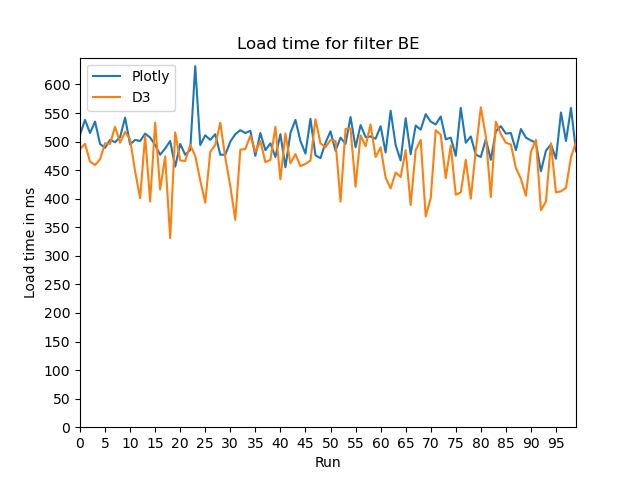
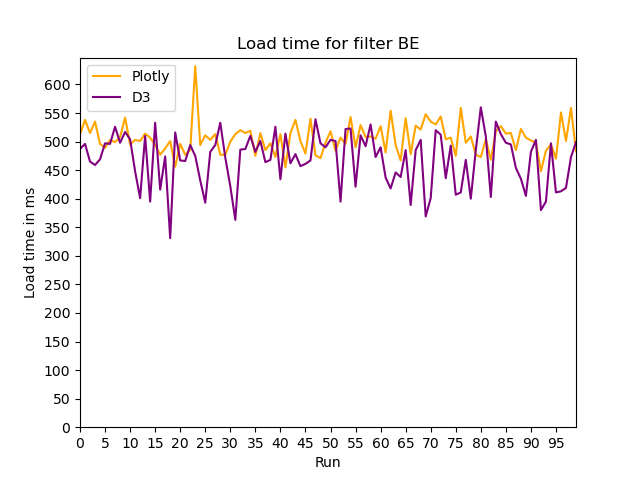
fixed color scale

Changed region(s): [[0.125, 0.125, 0.9062, 0.5], [0.1562, 0.1562, 0.1875, 0.2188]]

diff --git a/pilotData/diffs/filterLine.py b/pilotData/diffs/filterLine.py
@@ -42,14 +42,14 @@ filters = [['BE'], ['DE'], ['BE', 'DK'], ['ES', 'CZ', 'EL', 'ES', 'FR', 'HR', 'I
 for filter in filters:
 
     # whatever filter we are on i.e 1,2,3 etc. start counting every 5th from that in PlY and d3Y.
-    plt.plot(x, PlY[filters.index(filter)::5])
-    plt.plot(x, d3Y[filters.index(filter)::5])
+    plt.plot(x, PlY[filters.index(filter)::5], 'orange')
+    plt.plot(x, d3Y[filters.index(filter)::5], 'purple')
 
     plt.ylim(ymin=0)
     plt.xlim(xmin=0, xmax=99)
     # -1 since we start from 0
     # plt.xlim(xmax=len(PlY[0::5]))
-    
+
     plt.xticks(range(0,100,5))
     # range from 0 to the maximum value of y, with ticks of 50.
     plt.yticks(range(0, max(PlY), 50))

diff --git a/pilotData/diffs/line.py b/pilotData/diffs/line.py
@@ -23,8 +23,8 @@ print(d3Df['epoch'].std())
 # set the size of the graph, since the x ticks would be squished otherwise
 # plt.figure(figsize=(18, 6), dpi=80)
 
-plt.plot(x, PlY)
-plt.plot(x, d3Y)
+plt.plot(x, PlY, 'orange')
+plt.plot(x, d3Y, 'purple')
 
 plt.ylim(ymin=0)
 plt.xlim(xmin=0, xmax=99)
